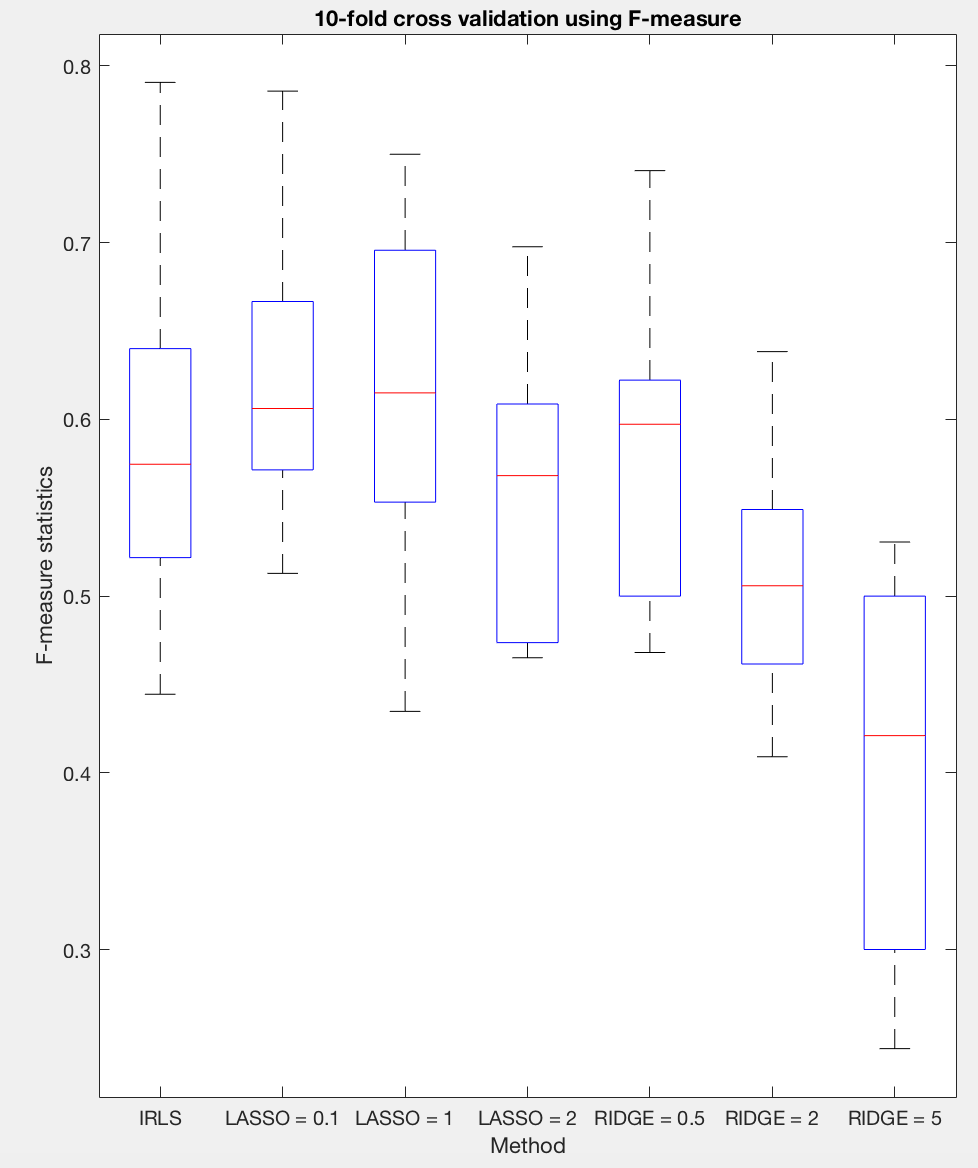
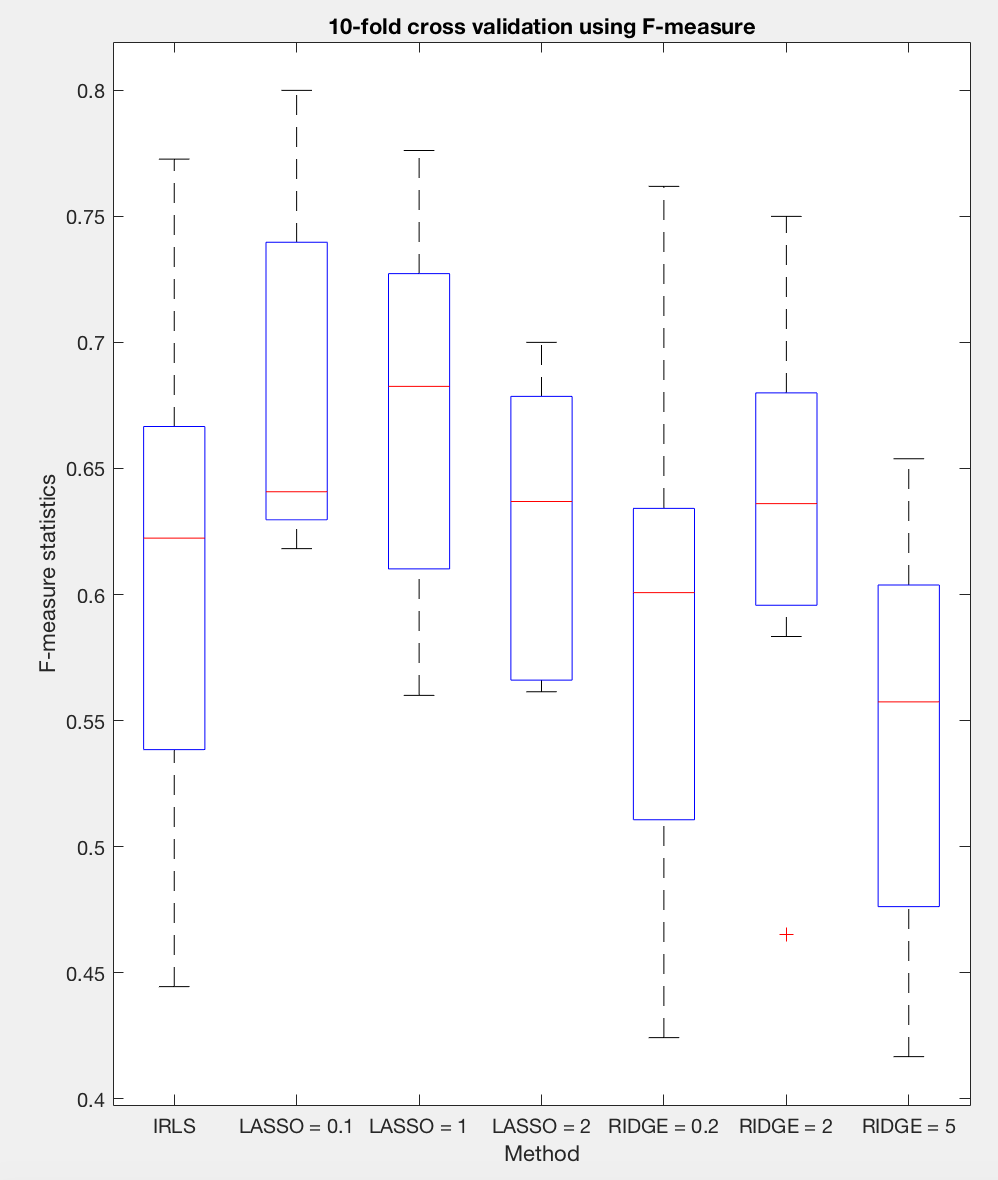
Center dataset + updates irls and figures

diff --git a/methods/irls_cv.m b/methods/irls_cv.m
@@ -8,10 +8,10 @@ function irls_cv(dataset, is, fold)
 % <============ HEADER =============>
 
 %% hyper-parameters 
-tt_ratio = 0.8;
+tt_ratio = 0.9;
 opt_names = {'unpenalized','L1','L2'};
-l1_penalties = [0.05, 0.2, 0.5];
-l2_penalties = [0.05, 0.2, 0.5];
+l1_penalties = [0.1, 1, 2];
+l2_penalties = [0.2, 2, 5];
 n = 1+size(l1_penalties,2)+size(l2_penalties,2);
 f_measures = zeros(n,fold);
 roc_points = zeros(n,2);
@@ -44,7 +44,7 @@ end
 
 %% plots 
 figure('units','normalized','outerposition',[0 0 1 1])
-subplot(1,2,1); boxplot(f_measures','Labels',{'IRLS','LASSO = 0.05','LASSO = 0.2','LASSO = 0.5','RIDGE = 0.05','RIDGE = 0.2','RIDGE = 0.5'});
+subplot(1,2,1); boxplot(f_measures','Labels',{'IRLS','LASSO = 0.1','LASSO = 1','LASSO = 2','RIDGE = 0.2','RIDGE = 2','RIDGE = 5'});
 xlabel('Method');
 ylabel('F-measure statistics');
 title('10-fold cross validation using F-measure');
@@ -54,7 +54,7 @@ for i = 1:n
     plot(roc_points(i,2),roc_points(i,1),'o','MarkerSize',20,'MarkerEdgeColor',[rand rand rand], 'MarkerFaceColor',[rand rand rand]); hold on;
 end
 axis([0 1 0 1]);
-l = legend('IRLS','LASSO, $\lambda_1 = 0.05$','LASSO, $\lambda_1 = 0.2$','LASSO, $\lambda_1 = 0.5$', 'RIDGE, $\lambda_2 = 0.05$', 'RIDGE, $\lambda_2 = 0.2$','RIDGE, $\lambda_2 = 0.5$');
+l = legend('IRLS','LASSO, $\lambda_1 = 0.1$','LASSO, $\lambda_1 = 1$','LASSO, $\lambda_1 = 2$', 'RIDGE, $\lambda_2 = 0.2$', 'RIDGE, $\lambda_2 = 2$','RIDGE, $\lambda_2 = 5$');
 set(l,'Interpreter','latex');
 
 

diff --git a/methods/irls.m b/methods/irls.m
@@ -13,7 +13,7 @@ function [w, prior, lc] = irls(dataset, input_size, opt)
 %% algo parameters
 max_iter = 5000;
 mini_batch_size = 40;
-eps = 1e-5;
+eps = 1e-4;
 feature = 'linear';
 learning_rate = 0.002;
 loss = 0;
@@ -43,10 +43,10 @@ for iter=1:max_iter
    g = phi'*(y-t);                                  % gradient
    switch (opt.name)
        case 'L1'
-           g = g + lambda*sign(w);
+           g = g + lambda*[sign(w(1:input_size));0];
        case 'L2'
-           H = H + lambda*eye(size(H));
-           g = g + lambda*w;
+           H = H + lambda*[eye(size(H)-[1,1]),zeros(size(H,1)-1,1);zeros(1,size(H,2))];
+           g = g + lambda*([w(1:input_size);0]);
    end
    d = linsolve(H,g);                               % Newton descent direction
    
@@ -57,9 +57,9 @@ for iter=1:max_iter
    nloss = cross_entropy_loss_function(ytot,dataset(:,input_size+1));
    switch (opt.name)
        case 'L1'
-           nloss  = nloss + lambda*sum(abs(w));
+           nloss  = nloss + lambda*sum(abs(w(1:input_size)));
        case 'L2'
-           nloss = nloss + 0.5*lambda*(w'*w);
+           nloss = nloss + 0.5*lambda*(w(1:input_size)'*w(1:input_size));
    end
    
    if (iter>1)
@@ -73,7 +73,7 @@ for iter=1:max_iter
 end
 
 if (nargin>2)
-   if (strcmp(opt,'L1'))
+   if (strcmp(opt.name,'L1'))
       % sparse formulation 
       w = w.*double(w>0.001);
    end

diff --git a/main.m b/main.m
@@ -17,19 +17,19 @@ ds = readtable(strcat(dataset_name,'.csv'));
 
 
 %% data visualization 
-  visualize_data(ds, is);
+  % visualize_data(ds, is);
 
 
 %% solution vizualisation
 % IRLS solution vizualisation 
  opt_up    = struct('name','unpenalized','hp',[]);  % unpenalized IRLS
- opt_L1 = struct('name','L1','hp',0.1);              % LASSO penalization
- opt_L2 = struct('name','L2','hp',0.3);              % RIDGE penalization
- opt = opt_up;
-% [w, prior, lc] = irls(ds, is, opt); 
-% visualize_solution(w(1:is), ds, is, lc, opt);
+ opt_L1 = struct('name','L1','hp',2);              % LASSO penalization
+ opt_L2 = struct('name','L2','hp',10);              % RIDGE penalization
+ opt = opt_L2;
+ [w, prior, lc] = irls(ds, is, opt); 
+ visualize_solution(w(1:is), ds, is, lc, opt);
 
 
 %% F-fold CV  
-fold = 20;
+fold = 10;
 irls_cv(ds, is, fold);

diff --git a/utils/normalize_data.m b/utils/normalize_data.m
@@ -18,7 +18,7 @@ switch (name)
     case 'pidd'
         input_size = 8;
         n_ds = table2array(ds(:,1:input_size+1));
-       % n_ds(:,1:input_size) = n_ds(:,1:input_size) ./ sqrt(var(n_ds(:,1:input_size)));
+        n_ds(:,1:input_size) = (n_ds(:,1:input_size)-mean(n_ds(:,1:input_size))) ./ sqrt(var(n_ds(:,1:input_size)));
     otherwise
         error('Unknown dataset');
 end

diff --git a/utils/cv_binary_classification.m b/utils/cv_binary_classification.m
@@ -14,7 +14,7 @@ function [fmeasure, roc] = cv_binary_classification(w, test_set, prior, is)
 % compute estimates 
 yest = compute_output('logistic_sigmoid', w(1:is), w(is+1),test_set(:,1:is), 'linear');
 t_test = test_set(:,is+1);
-t_est = round(yest+0.05);
+t_est = round(yest);
 
 % computes TP and FP 
 TP = sum(double(t_test  & t_est));
